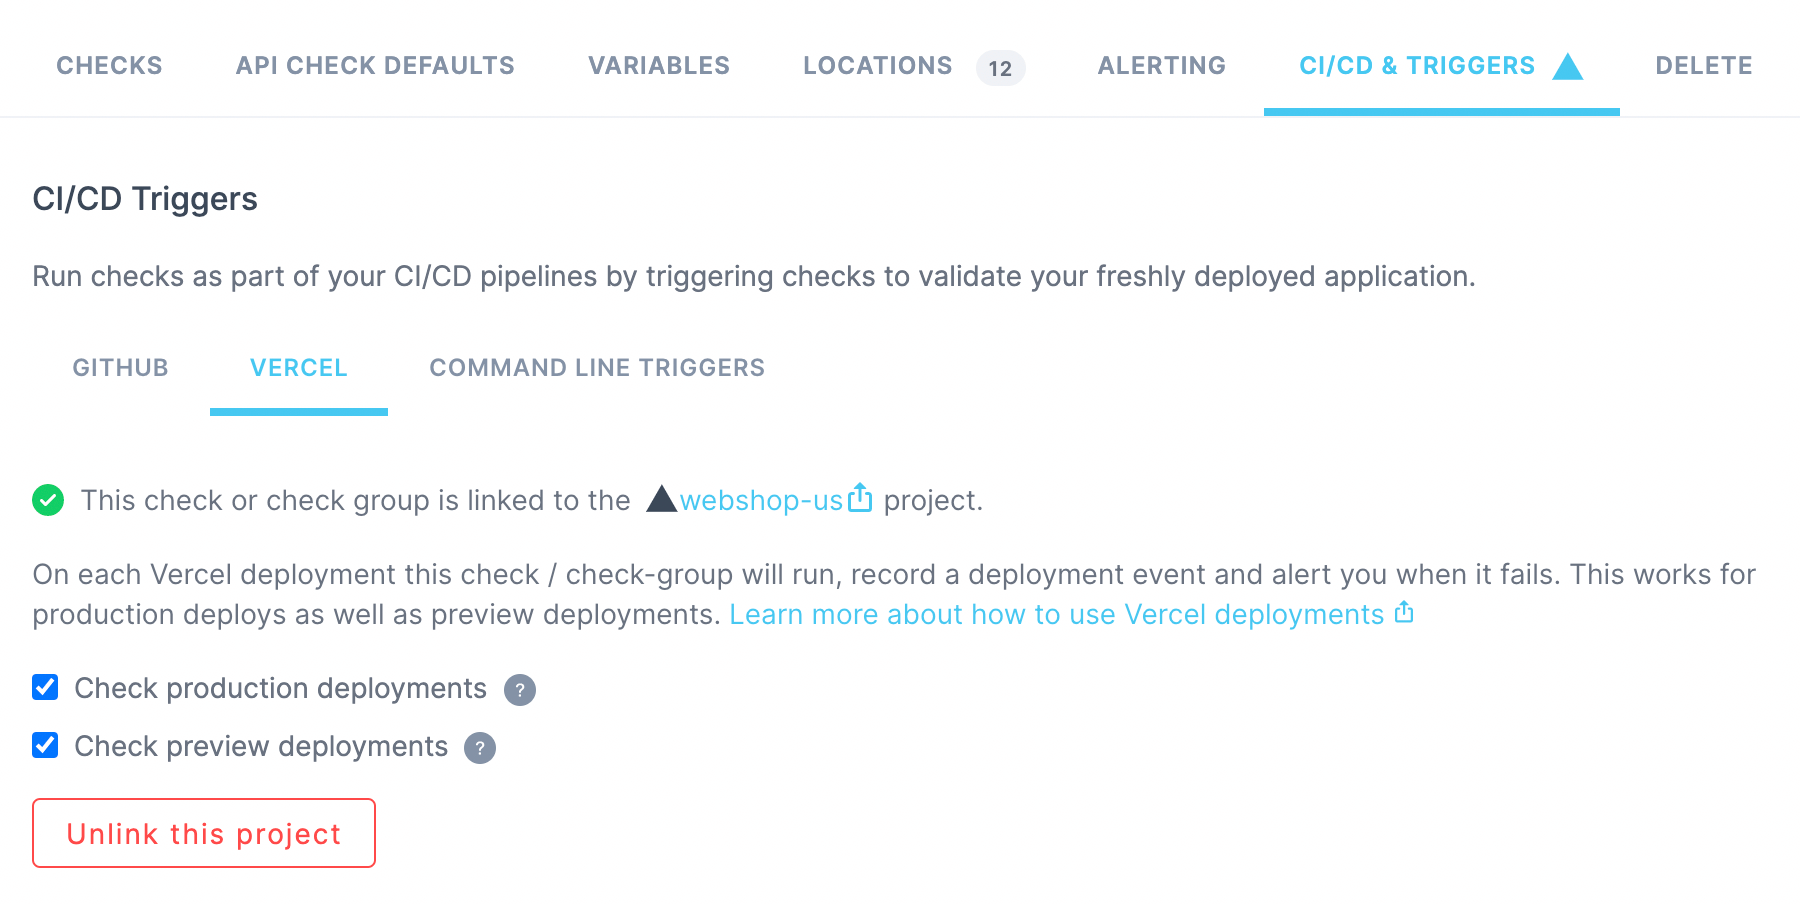
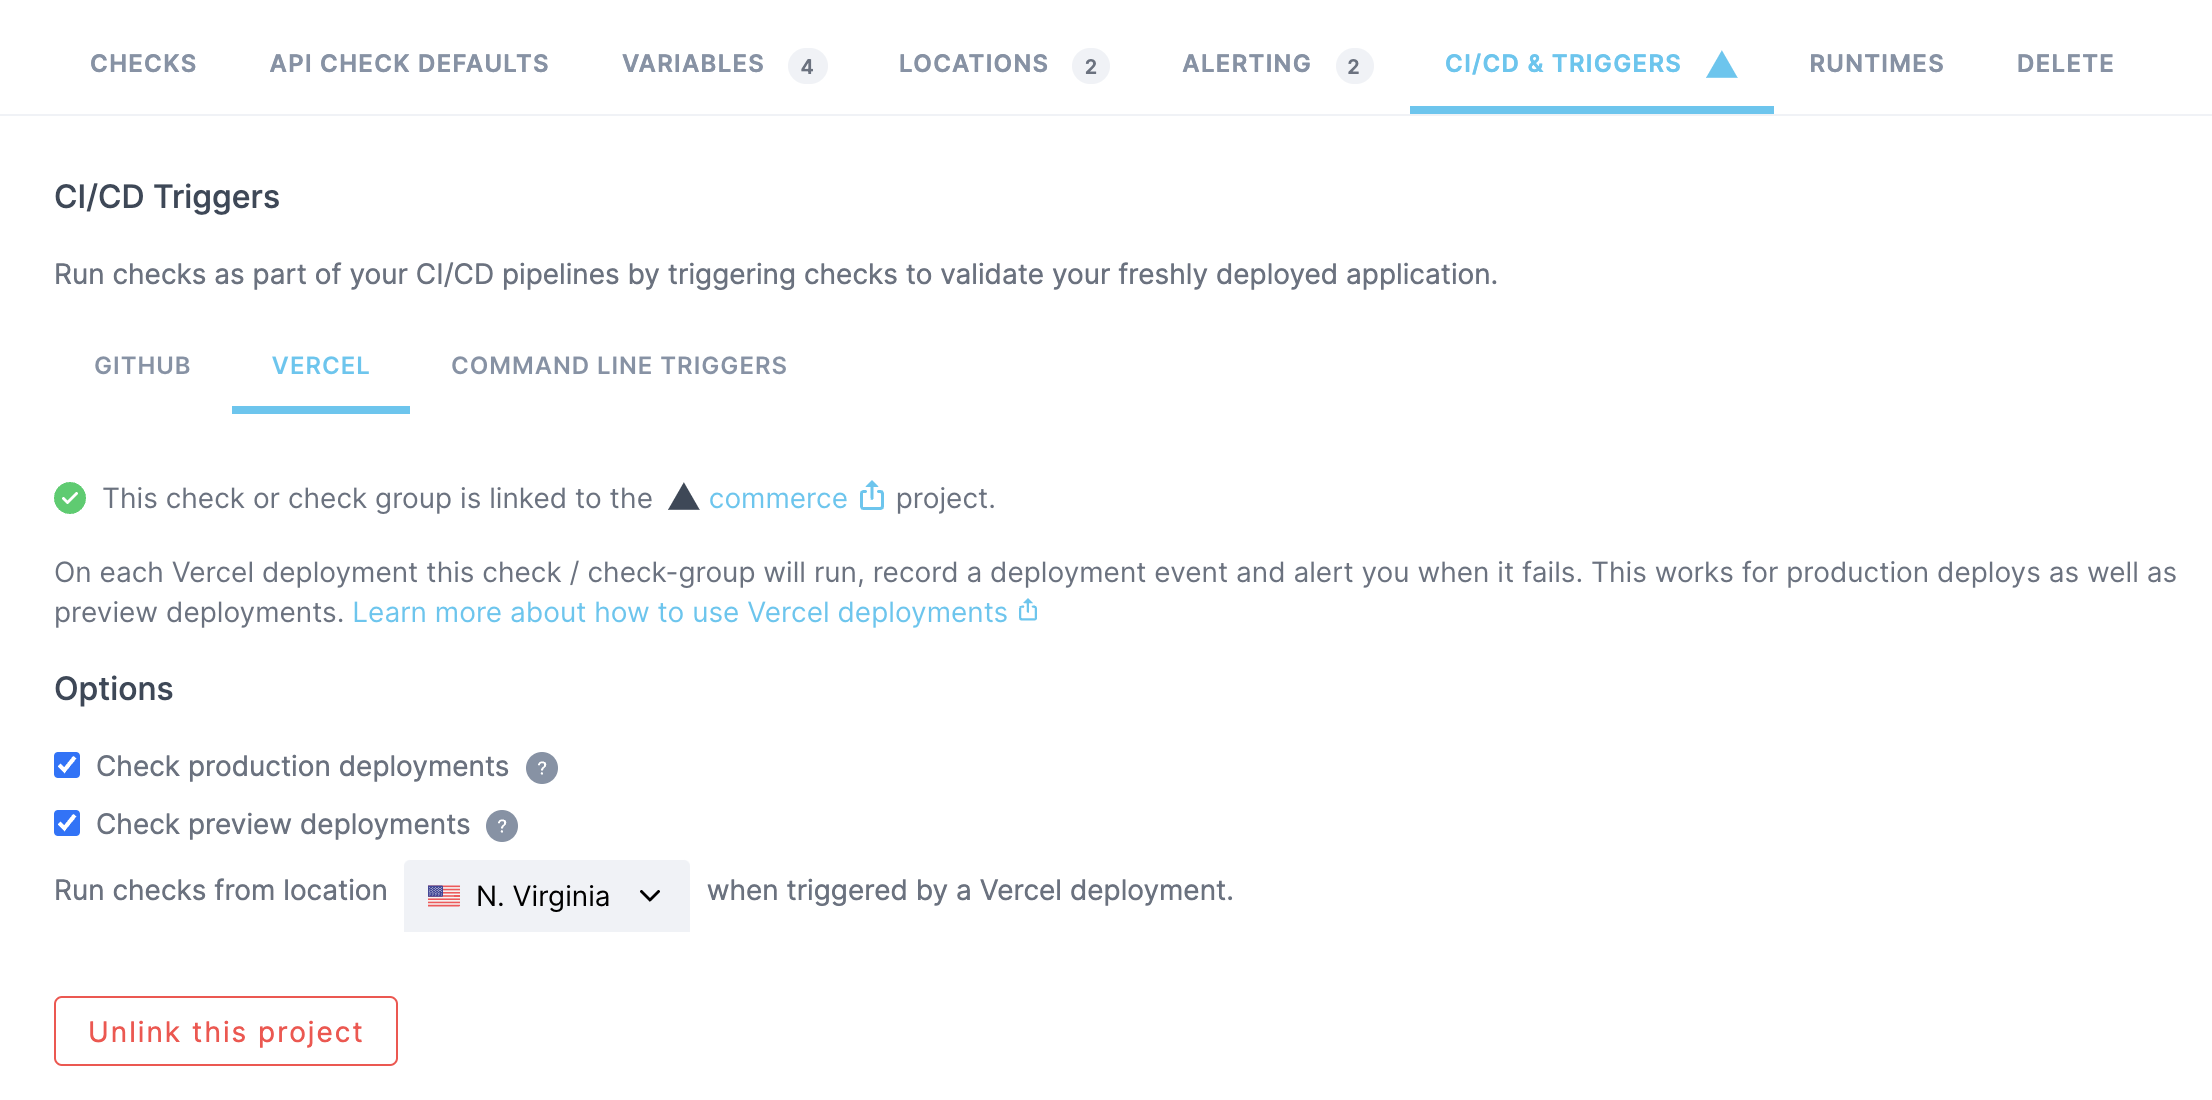
docs: update vercel docs

diff --git a/site/content/docs/CICD/vercel.md b/site/content/docs/CICD/vercel.md
@@ -53,7 +53,7 @@ You will just need to select the right project to link to your check or group.
 
 ![vercel project selection](/docs/images/cicd/vercel/vercel_link.png)
 
-Once the project and the check/group have been linked, you are able to specify whether a new preview or production deployment should trigger a new execution.
+Once the project and the check/group have been linked, you are able to specify whether a new preview or production deployment should trigger a new execution. You will also have the chance to choose from which location this check will run.
 
 ![linked check](/docs/images/cicd/vercel/vercel_linked.png)
 
@@ -64,6 +64,14 @@ Should you wish to unlink the Vercel project, simply click `Unlink this project`
 When selecting a check which is linked to a Vercel project, any results triggered by a deployment on that project will show at the bottom of the check page, under the tab `CI/CD triggered check results`.
 
 ![cicd triggered check results tab](/docs/images/cicd/vercel/vercel_result.png)
+
+On Vercel, you will also see a breakdown of checks that were executed on a given deployment, together with a breakdown of various key web vitals.
+
+![vercel checks vitals](/docs/images/cicd/vercel/vercel_vitals.png)
+
+{{< info >}}
+Web vitals are available for Playwright-based browser checks using [runtime](/docs/runtimes/) 2021.06 or newer.
+{{< /info >}}
 
 ### Deployments tab
 

diff --git a/site/content/docs/integrations/_index.md b/site/content/docs/integrations/_index.md
@@ -8,6 +8,7 @@ docs: {parent: Integrations}
 Checkly integrates with the services and tool stack you use. Missing an integration? Let us know via 
 <a class="open-intercom-link" href="mailto:support@checklyhq.com">support</a>.
 
+* [Vercel](/docs/integrations/vercel)
 * [Slack](/docs/integrations/slack)
 * [Pagerduty](/docs/integrations/pagerduty)
 * [Opsgenie](/docs/integrations/opsgenie)

diff --git a/site/content/docs/integrations/vercel.md b/site/content/docs/integrations/vercel.md
@@ -1,0 +1,11 @@
+---
+title: Vercel
+weight: 2
+menu:
+  docs:
+    parent: "Integrations"
+---
+
+Seamlessly integrate with Vercel to run checks on both preview and production deployments, as well as to have checks automatically generated for your existing projects.
+
+To get started, check out [the docs on our Vercel integration](/docs/cicd/vercel/)

diff --git a/site/content/docs/integrations/msteams.md b/site/content/docs/integrations/msteams.md
@@ -1,6 +1,6 @@
 ---
 title: Microsoft Teams
-weight: 5
+weight: 6
 menu:
   docs:
     parent: "Integrations"

diff --git a/site/content/docs/integrations/splunk_on_call.md b/site/content/docs/integrations/splunk_on_call.md
@@ -1,6 +1,6 @@
 ---
 title: Splunk On-Call
-weight: 8
+weight: 0
 menu:
   docs:
     parent: "Integrations"

diff --git a/site/content/docs/integrations/firehydrant.md b/site/content/docs/integrations/firehydrant.md
@@ -1,6 +1,6 @@
 ---
 title: FireHydrant
-weight: 12
+weight: 13
 menu:
   docs:
     parent: "Integrations"

diff --git a/site/content/docs/integrations/gitlab_alerts.md b/site/content/docs/integrations/gitlab_alerts.md
@@ -1,6 +1,6 @@
 ---
 title: GitLab Alerts
-weight: 7
+weight: 8
 menu:
   docs:
     parent: "Integrations"

diff --git a/site/content/docs/integrations/prometheus.md b/site/content/docs/integrations/prometheus.md
@@ -1,6 +1,6 @@
 ---
 title: Prometheus
-weight: 10
+weight: 11
 menu:
   docs:
     parent: "Integrations"

diff --git a/site/content/docs/integrations/statuspage.md b/site/content/docs/integrations/statuspage.md
@@ -1,6 +1,6 @@
 ---
 title: StatusPage
-weight: 9
+weight: 10
 menu:
   docs:
     parent: "Integrations"

diff --git a/site/content/docs/integrations/terraform.md b/site/content/docs/integrations/terraform.md
@@ -1,6 +1,6 @@
 ---
 title: Terraform
-weight: 11
+weight: 12
 menu:
   docs:
     parent: "Integrations"

diff --git a/site/content/docs/integrations/pagerduty.md b/site/content/docs/integrations/pagerduty.md
@@ -1,6 +1,6 @@
 ---
 title: Pagerduty
-weight: 3
+weight: 4
 menu:
   docs:
     parent: "Integrations"

diff --git a/site/content/docs/integrations/opsgenie.md b/site/content/docs/integrations/opsgenie.md
@@ -1,6 +1,6 @@
 ---
 title: Opsgenie
-weight: 4
+weight: 5
 menu:
   docs:
     parent: "Integrations"
